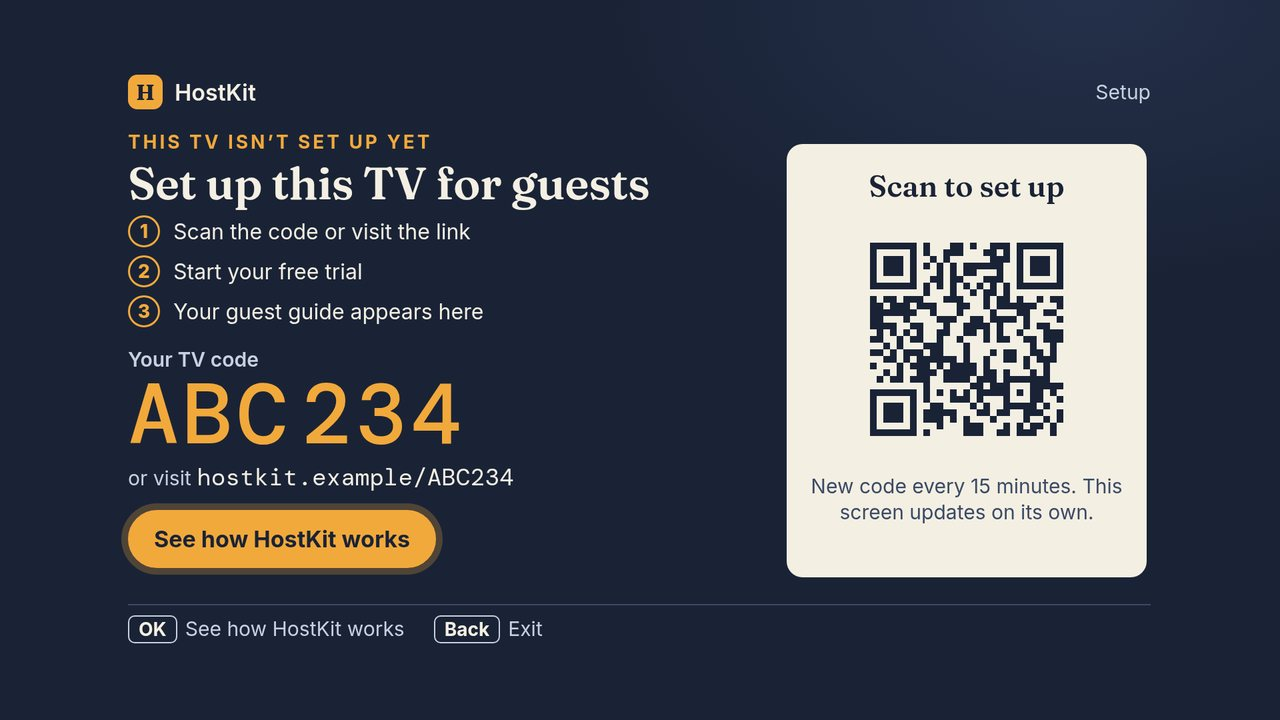
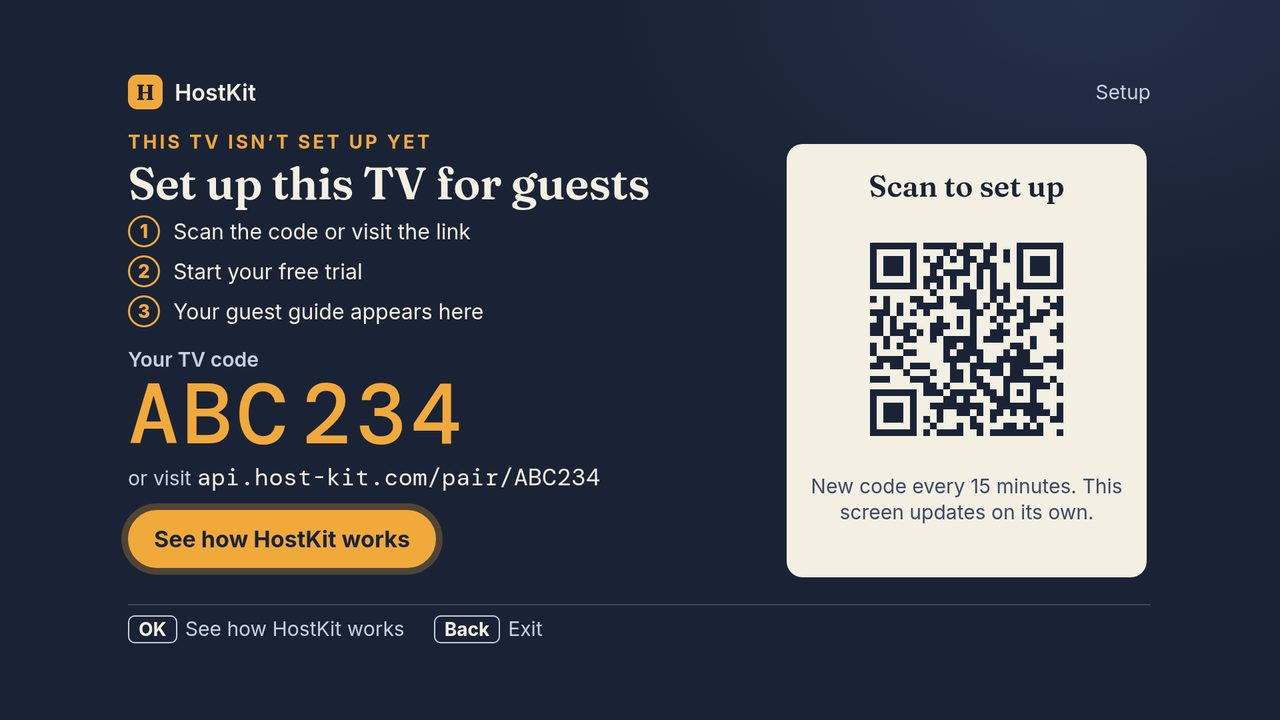
web: serve the site at the root for host-kit.com, keep /hostkit-preview/ links working
The Vite base and router basename move from /hostkit-preview/ to /, so
host-kit.com and hostkit-preview.pages.dev both serve the sales home at
the root and the wizard at /wizard/, /setup/ and /pair/:code.

Old /hostkit-preview/* links keep working two ways: _redirects 301s them
to the root (query kept) when the deployment sends _redirects as a form
field, and the sales home (which Pages serves for any unknown path) has a
small inline script that does the same, and sends /pair/CODE to
/wizard/?code=CODE. The SPA strips the prefix too.

hostkit-config.json now points at https://api.host-kit.com. The pairing
mockup shows api.host-kit.com/pair/ABC234 and its QR encodes
https://api.host-kit.com/pair/ABC234, replacing the hostkit.example
placeholder. noindex stays in the meta tag, X-Robots-Tag, robots.txt and
the visible footer note.

Changed region(s): [[0.6562, 0.3361, 0.8438, 0.6111], [0.1562, 0.6417, 0.4688, 0.6722]]

diff --git a/web/src/lib/__tests__/rootSite.test.js b/web/src/lib/__tests__/rootSite.test.js
@@ -1,0 +1,72 @@
+import test from "node:test";
+import assert from "node:assert/strict";
+import vm from "node:vm";
+import { readFileSync, readdirSync } from "node:fs";
+import { join, dirname } from "node:path";
+import { fileURLToPath } from "node:url";
+
+const web = join(dirname(fileURLToPath(import.meta.url)), "../../..");
+const read = (p) => readFileSync(join(web, p), "utf8");
+
+// Run the sales home's inline fallback script against a fake location.
+function fallback(pathname, search = "", hash = "") {
+  const html = read("sales-site/index.html");
+  const js = html.match(/<script>([\s\S]*?)<\/script>/)[1];
+  const calls = [];
+  const location = { pathname, search, hash, replace: (u) => calls.push(u) };
+  vm.runInNewContext(js, { location });
+  return calls[0] ?? null;
+}
+
+test("the build serves at the root", () => {
+  assert.match(read("vite.config.js"), /base: "\/",/);
+  assert.ok(!read("src/main.jsx").includes('basename="/hostkit-preview"'));
+});
+
+test("hostkit-config.json points at api.host-kit.com", () => {
+  assert.deepEqual(JSON.parse(read("public/hostkit-config.json")), { apiBase: "https://api.host-kit.com" });
+});
+
+test("_redirects moves /hostkit-preview/* to the root and keeps SPA deep links", () => {
+  const rules = read("public/_redirects")
+    .split("\n")
+    .filter((l) => l.trim() && !l.startsWith("#"))
+    .map((l) => l.trim().split(/\s+/));
+  assert.deepEqual(rules, [
+    ["/hostkit-preview", "/", "301"],
+    ["/hostkit-preview/*", "/:splat", "301"],
+    ["/pair/*", "/pair/", "200"],
+    ["/wizard/*", "/wizard/", "200"],
+    ["/setup/*", "/setup/", "200"],
+  ]);
+});
+
+test("noindex header and robots.txt stay in place", () => {
+  assert.match(read("public/_headers"), /^\/\*\n\s+X-Robots-Tag: noindex, nofollow/m);
+  assert.equal(read("public/robots.txt"), "User-agent: *\nDisallow: /\n");
+});
+
+test("home page fallback forwards old links and pair codes, keeping the query", () => {
+  assert.equal(fallback("/"), null);
+  assert.equal(fallback("/hostkit-preview/", "?code=ABC234"), "/?code=ABC234");
+  assert.equal(fallback("/hostkit-preview"), "/");
+  assert.equal(fallback("/hostkit-preview/wizard/", "?code=ABC234", "#x"), "/wizard/?code=ABC234#x");
+  assert.equal(fallback("/hostkit-preview/signup", "?code=ABC234"), "/signup?code=ABC234");
+  assert.equal(fallback("/hostkit-preview/pair/abc234"), "/pair/abc234");
+  assert.equal(fallback("/pair/abc234"), "/wizard/?code=ABC234");
+  assert.equal(fallback("/nope", "?code=ABC234"), "/?code=ABC234");
+});
+
+test("no .example placeholder or preview URL is left in the site or wizard", () => {
+  const files = [
+    ...readdirSync(join(web, "sales-site")).filter((f) => f.endsWith(".html")).map((f) => `sales-site/${f}`),
+    "sales-site/assets/site.js",
+    "sales-site/assets/trial.js",
+    "src/main.jsx",
+    "src/WizardPage.jsx",
+  ];
+  for (const f of files) {
+    const text = read(f);
+    assert.ok(!/hostkit\.example|hostkit-preview\.pages\.dev|workers\.dev/.test(text), f);
+  }
+});

diff --git a/web/src/main.jsx b/web/src/main.jsx
@@ -2,22 +2,16 @@ import React from "react";
 import { createRoot } from "react-dom/client";
 import { BrowserRouter, Routes, Route, Link, useParams } from "react-router-dom";
 import { WizardPage } from "./WizardPage.jsx";
-import { applyPreviewPathNormalization } from "./lib/pathNormalize.js";
+import { applyPreviewPathNormalization, legacyPreviewPath } from "./lib/pathNormalize.js";
 import "./styles.css";
 
-// Direct-upload Pages does not always honor _redirects. Missing paths may
-// be served as the root index.html while keeping the original URL. If that
-// root copy is the SPA, stay put; if the URL is outside the preview base,
-// send the visitor there.
+// The app used to live under /hostkit-preview/. Old links (and the TV
+// short link on older Worker settings) still arrive there, so strip the
+// prefix and keep the query and hash. _redirects does the same at the edge.
 if (typeof window !== "undefined") {
-  const path = window.location.pathname;
-  if (path === "/" || !path.startsWith("/hostkit-preview")) {
-    const next = path === "/" || path === "/index.html"
-      ? "/hostkit-preview/"
-      : "/hostkit-preview" + (path.startsWith("/") ? path : "/" + path);
-    if (next !== path) {
-      window.location.replace(next + window.location.search + window.location.hash);
-    }
+  const legacy = legacyPreviewPath(window.location.pathname);
+  if (legacy !== null) {
+    window.location.replace(legacy + window.location.search + window.location.hash);
   } else {
     applyPreviewPathNormalization();
   }
@@ -28,24 +22,24 @@ function PairRedirect() {
   return <WizardPage initialCode={code} />;
 }
 
-// /hostkit-preview/ is now the static sales site. If the SPA ever renders
-// its root route (client-side nav or a stray shell), hand off to it.
+// / is the static sales site. If the SPA ever renders its root route
+// (client-side nav or a stray shell), hand off to it.
 function SalesHome() {
   React.useEffect(() => {
-    window.location.replace("/hostkit-preview/" + window.location.search + window.location.hash);
+    window.location.replace("/" + window.location.search + window.location.hash);
   }, []);
   return null;
 }
 
 function App() {
   return (
-    <BrowserRouter basename="/hostkit-preview">
+    <BrowserRouter>
       <header className="top">
-        <a href="/hostkit-preview/" className="brand">
+        <a href="/" className="brand">
           HostKit preview
         </a>
         <nav>
-          <a href="/hostkit-preview/">Home</a>
+          <a href="/">Home</a>
           <Link to="/wizard">Wizard</Link>
         </nav>
       </header>

diff --git a/web/src/lib/__tests__/pathNormalize.test.js b/web/src/lib/__tests__/pathNormalize.test.js
@@ -3,19 +3,29 @@ import { test } from "node:test";
 import {
   normalizePreviewPathname,
   applyPreviewPathNormalization,
+  legacyPreviewPath,
 } from "../pathNormalize.js";
 
 test("strips trailing slash and index.html", () => {
-  assert.equal(normalizePreviewPathname("/hostkit-preview/wizard/"), "/hostkit-preview/wizard");
-  assert.equal(normalizePreviewPathname("/hostkit-preview/wizard/index.html"), "/hostkit-preview/wizard");
-  assert.equal(normalizePreviewPathname("/hostkit-preview/"), "/hostkit-preview");
-  assert.equal(normalizePreviewPathname("/hostkit-preview"), "/hostkit-preview");
+  assert.equal(normalizePreviewPathname("/wizard/"), "/wizard");
+  assert.equal(normalizePreviewPathname("/wizard/index.html"), "/wizard");
+  assert.equal(normalizePreviewPathname("/setup/"), "/setup");
+  assert.equal(normalizePreviewPathname("/"), "/");
 });
 
 test("replaceState is used when the path needs normalizing", () => {
   const calls = [];
-  const loc = { pathname: "/hostkit-preview/wizard/index.html", search: "?code=ABC234", hash: "" };
+  const loc = { pathname: "/wizard/index.html", search: "?code=ABC234", hash: "" };
   const hist = { state: null, replaceState(_s, _t, url) { calls.push(url); } };
   applyPreviewPathNormalization(loc, hist);
-  assert.deepEqual(calls, ["/hostkit-preview/wizard?code=ABC234"]);
+  assert.deepEqual(calls, ["/wizard?code=ABC234"]);
+});
+
+test("old /hostkit-preview paths map to the root", () => {
+  assert.equal(legacyPreviewPath("/hostkit-preview/"), "/");
+  assert.equal(legacyPreviewPath("/hostkit-preview"), "/");
+  assert.equal(legacyPreviewPath("/hostkit-preview/wizard/"), "/wizard/");
+  assert.equal(legacyPreviewPath("/hostkit-preview/pair/ABC234"), "/pair/ABC234");
+  assert.equal(legacyPreviewPath("/wizard/"), null);
+  assert.equal(legacyPreviewPath("/hostkit-previewx/"), null);
 });

diff --git a/web/vite.config.js b/web/vite.config.js
@@ -3,7 +3,7 @@ import react from "@vitejs/plugin-react";
 import { mkdirSync, copyFileSync, cpSync, readFileSync, writeFileSync, existsSync } from "node:fs";
 import { dirname, join } from "node:path";
 
-// Static export under /hostkit-preview for the hidden staging path.
+// Static export served at the site root (host-kit.com and hostkit-preview.pages.dev).
 // Also emit an index.html per SPA route so Pages can serve deep links
 // even if _redirects is not applied, and a root-level _redirects note
 // is copied into the packaged preview upload.
@@ -25,7 +25,7 @@ function spaFallbacks(routes = ["wizard", "pair", "setup"]) {
 
 // The static sales site (web/sales-site, Pixel's design) is the preview home.
 // Copy it over dist/ after the SPA route fallbacks are written, so
-// /hostkit-preview/ is the sales home and /wizard/, /setup/, /pair/ stay SPA.
+// / is the sales home and /wizard/, /setup/, /pair/ stay SPA.
 function salesSite() {
   return {
     name: "hostkit-sales-site",
@@ -42,7 +42,7 @@ function salesSite() {
 
 export default defineConfig({
   plugins: [react(), spaFallbacks(), salesSite()],
-  base: "/hostkit-preview/",
+  base: "/",
   build: {
     outDir: "dist",
     emptyOutDir: true,

diff --git a/web/sales-site/index.html b/web/sales-site/index.html
@@ -1,4 +1,9 @@
 <!doctype html><html lang="en"><head><meta charset="utf-8">
+<script>/* Pages serves this page for any unknown path. Send old /hostkit-preview/ links and /pair/CODE on. */
+(function(l){var p=l.pathname,m;if(p==="/"||p==="/index.html")return;
+if(p==="/hostkit-preview"||p.indexOf("/hostkit-preview/")===0){l.replace((p.slice(16)||"/")+l.search+l.hash);return}
+m=/^\/pair\/([^\/]+)\/?$/.exec(p);if(m){l.replace("/wizard/?code="+encodeURIComponent(decodeURIComponent(m[1]).toUpperCase())+l.hash);return}
+l.replace("/"+l.search+l.hash)})(location);</script>
 <meta name="viewport" content="width=device-width,initial-scale=1,viewport-fit=cover">
 <meta name="robots" content="noindex,nofollow">
 <title>Answer guest questions once, on the TV · HostKit</title>

diff --git a/web/src/lib/__tests__/pairingCode.test.js b/web/src/lib/__tests__/pairingCode.test.js
@@ -27,8 +27,8 @@ test("normalize trims and uppercases", () => {
 });
 
 test("prefill from ?code= and /pair/:code", () => {
-  assert.equal(codeFromLocation("?code=abC234", "/hostkit-preview/wizard"), "ABC234");
-  assert.equal(codeFromLocation("", "/hostkit-preview/pair/xyz234"), "XYZ234");
-  assert.equal(codeFromLocation("", "/hostkit-preview/pair/xyz234/"), "XYZ234");
+  assert.equal(codeFromLocation("?code=abC234", "/wizard"), "ABC234");
+  assert.equal(codeFromLocation("", "/pair/xyz234"), "XYZ234");
+  assert.equal(codeFromLocation("", "/pair/xyz234/"), "XYZ234");
   assert.equal(codeFromLocation("", "/wizard"), "");
 });

diff --git a/web/src/lib/pathNormalize.js b/web/src/lib/pathNormalize.js
@@ -22,3 +22,12 @@ export function applyPreviewPathNormalization(loc = window.location, hist = wind
   }
   return loc.pathname;
 }
+
+const LEGACY_PREFIX = "/hostkit-preview";
+
+/** Path without the old /hostkit-preview prefix, or null when there is none. */
+export function legacyPreviewPath(pathname) {
+  const path = String(pathname || "/");
+  if (path !== LEGACY_PREFIX && !path.startsWith(`${LEGACY_PREFIX}/`)) return null;
+  return path.slice(LEGACY_PREFIX.length) || "/";
+}

diff --git a/web/sales-site/assets/site.js b/web/sales-site/assets/site.js
@@ -18,7 +18,7 @@
     root.classList.add('has-code');
     document.querySelectorAll('[data-code]').forEach(function (e) { e.textContent = code; });
   }
-  // Every CTA -> signup(?code=) under /hostkit-preview/, every internal page link keeps the code.
+  // Every CTA -> signup(?code=), every internal page link keeps the code.
   window.hostkitLink = function (href) {
     if (!code) return href;
     var m = href.match(/^([a-z0-9-]+\.html)(#.*)?$/i);

diff --git a/web/src/lib/__tests__/salesSite.test.js b/web/src/lib/__tests__/salesSite.test.js
@@ -23,7 +23,7 @@ test("every page is noindex and shows the noindex-safe price wording only", () =
   }
 });
 
-test("CTAs stay under /hostkit-preview/ and no third-party fonts load", () => {
+test("CTAs stay relative and no third-party fonts load", () => {
   for (const p of pages) {
     const html = readFileSync(join(site, p), "utf8");
     assert.ok(!html.includes('href="/signup'), `${p} has a root /signup link`);

diff --git a/web/sales-site/assets/trial.js b/web/sales-site/assets/trial.js
@@ -33,7 +33,7 @@ export function buildTrialRecord({ name, email, code } = {}, now = Date.now()) {
   };
 }
 
-/** Relative to /hostkit-preview/, so the code rides along to the wizard. */
+/** Relative to the site root, so the code rides along to the wizard. */
 export function wizardHref(code) {
   const c = normalizeCode(code);
   return c ? `wizard/?code=${encodeURIComponent(c)}` : "wizard/";

diff --git a/README.md b/README.md
@@ -8,7 +8,7 @@ HostKit turns a short-term rental's guest guide into a Roku channel, a Cloudflar
 |------|-------|---------|
 | `roku/` | Rocky | SceneGraph channel |
 | `worker/` | Rocky | Cloudflare Worker API + KV (`HOSTKIT`) |
-| `web/` | Web | Host wizard + marketing (static export, base `/hostkit-preview`) |
+| `web/` | Web | Sales site + host wizard (static export served at `/`; old `/hostkit-preview/*` links redirect to the root) |
 | `schema/` | Shared | `hostkit.v1.schema.json` + fixtures |
 
 ## Rules
